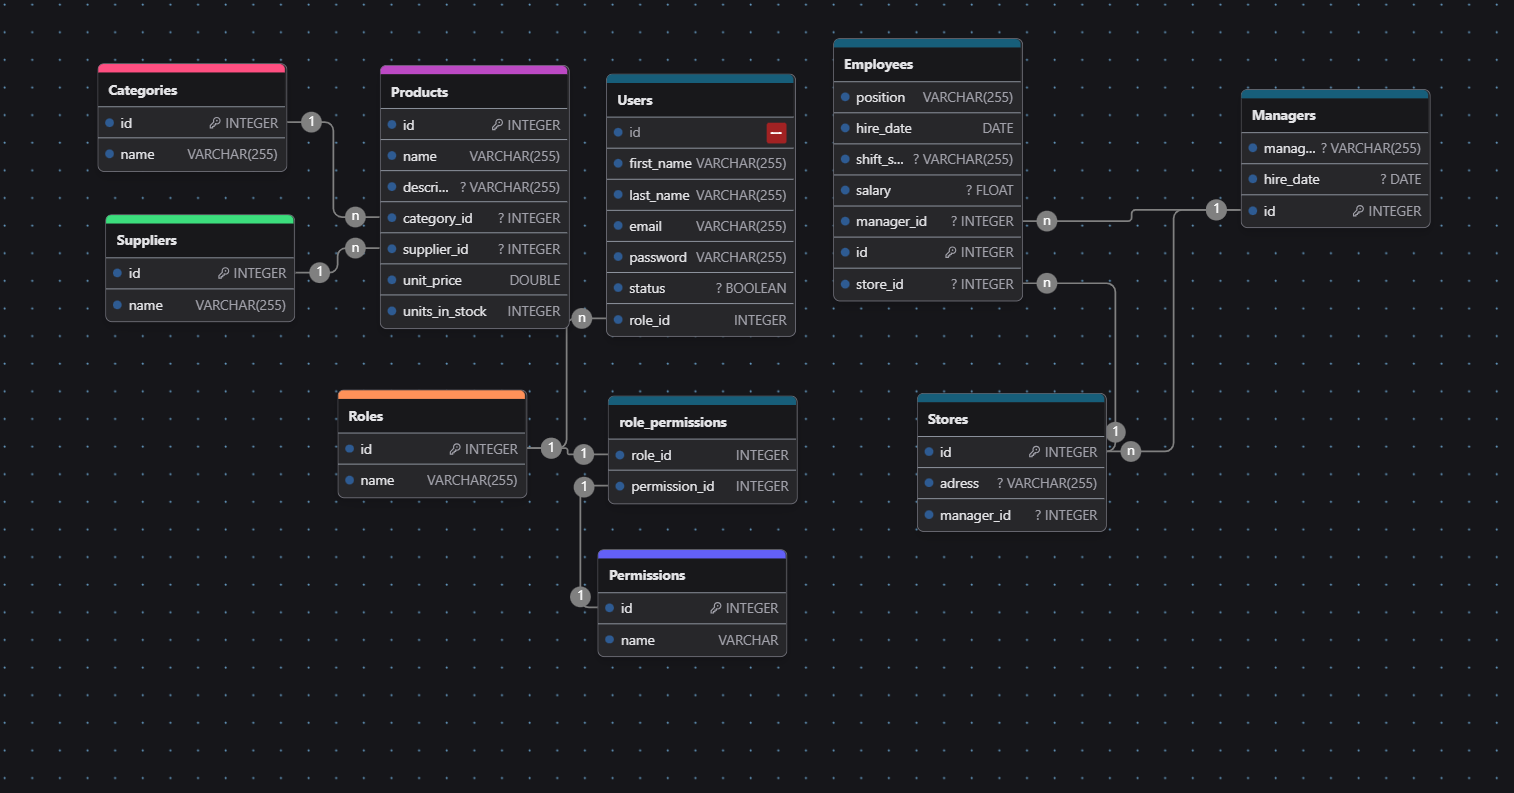
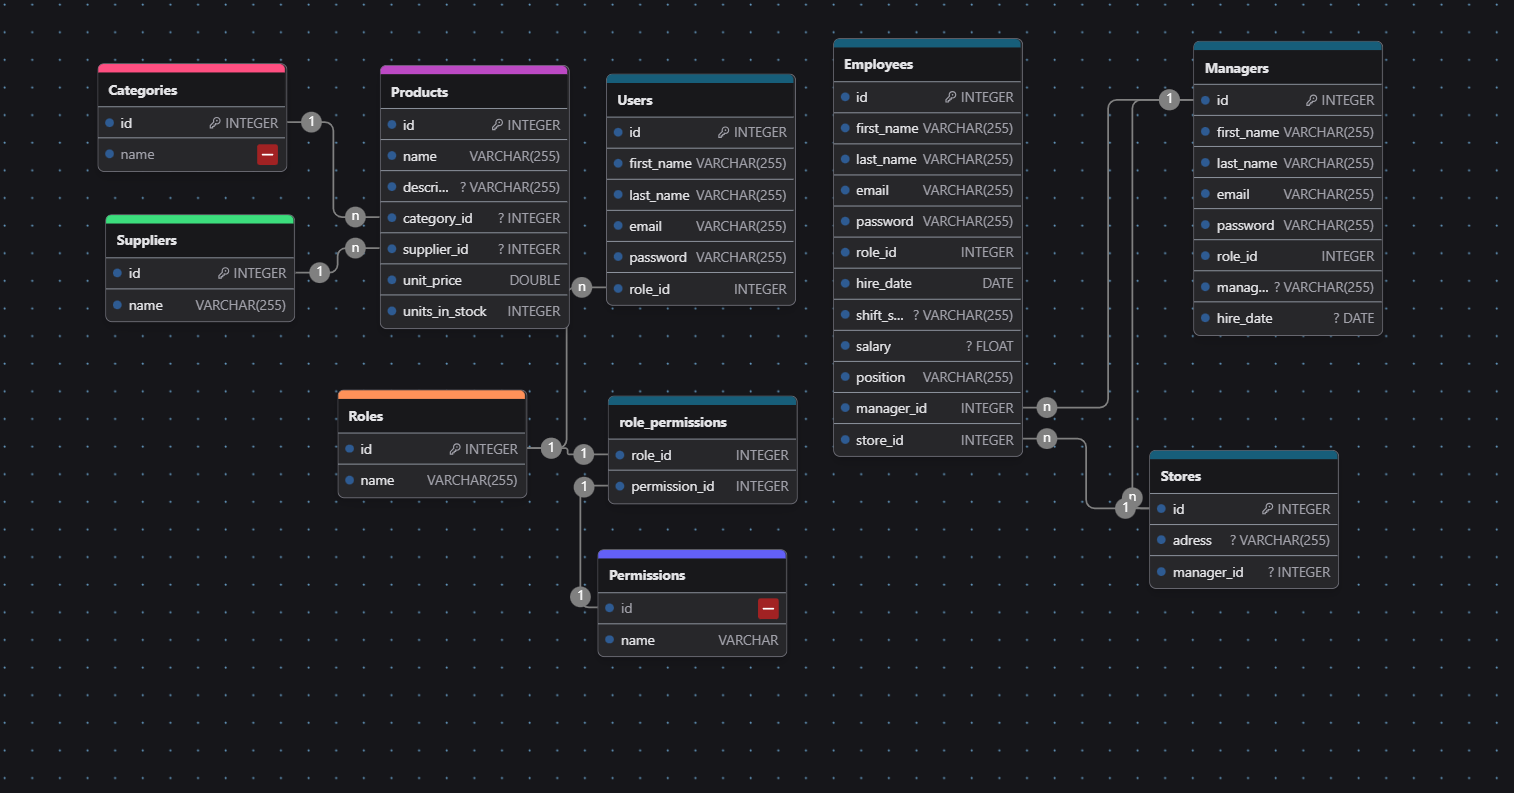
refactor: Eliminates inheritance relationship between models, residue of an initial code approach. Updates relational model image.

diff --git a/src/models/employee.model.js b/src/models/employee.model.js
@@ -2,7 +2,7 @@ import { DataTypes } from "sequelize";
 import User from "./user.model.js";
 import { format } from "@formkit/tempo";
 
-export default class Employee extends User {
+export default class Employee {
   constructor(data) {
     super(data);
     this.data = data;
@@ -21,7 +21,7 @@ export default class Employee extends User {
           allowNull: false,
         },
         hire_date: {
-          type: DataTypes.DATE,
+          type: DataTypes.DATEONLY,
           allowNull: false,
           defaultValue: format({
             date: new Date().toISOString(),

diff --git a/src/models/manager.model.js b/src/models/manager.model.js
@@ -2,7 +2,7 @@ import { DataTypes } from "sequelize";
 import User from "./user.model.js";
 import { format } from "@formkit/tempo";
 
-export default class Manager extends User {
+export default class Manager {
   constructor(data) {
     super(data);
     this.data = data;
